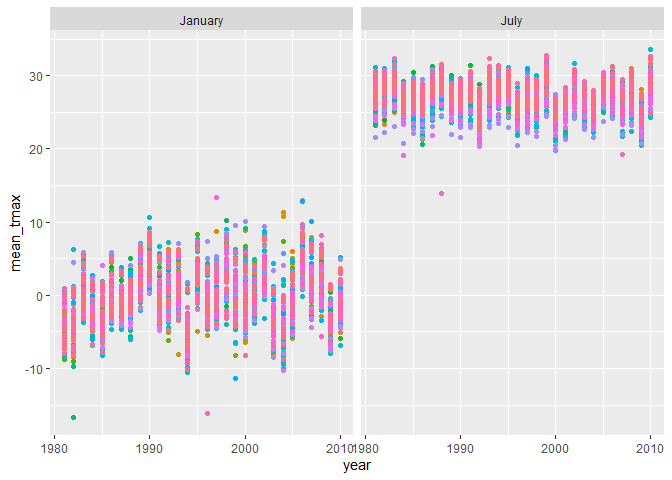
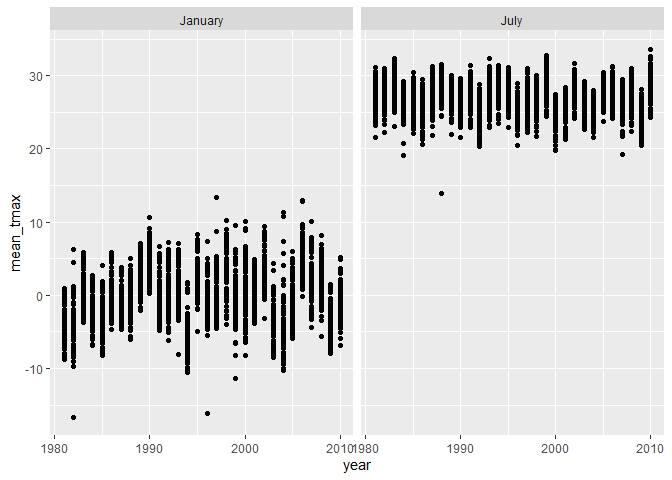
problem 3

Changed region(s): [[0.0938, 0.4375, 0.5312, 0.7812], [0.5312, 0.125, 0.9688, 0.3125]]

diff --git a/p8105_hw3_mmb2355.md b/p8105_hw3_mmb2355.md
@@ -88,7 +88,7 @@ ny_noaa |>
       7 ~ "July"
     )
   )|> 
-  ggplot(aes(x = year, y = mean_tmax, color = id)) +
+  ggplot(aes(x = year, y = mean_tmax)) +
   geom_point() +
   facet_grid(. ~ month_name) +
   theme(legend.position = "none")
@@ -194,13 +194,13 @@ accel_final =
   filter(age >= 21)
 ```
 
-### Number of men and women in each education category; visualization of the age distributions for men and women in each education category
+### Table: number of men and women in each education category; visualization of the age distributions for men and women in each education category
 
 ``` r
 accel_final |> 
   group_by(sex) |> 
   summarize(count = n()) |> 
-  knitr::kable(digits = 2)
+  knitr::kable()
 ```
 
 | sex    |  count |
@@ -288,3 +288,189 @@ accel_final |>
   decreased. Overall, females have a higher activity time compared to
   males across all education levels. Less than high school had the
   highest 24-day activity time at almost 16 g-mins.
+
+## Problem 3
+
+### Import, clean, and tidy these data
+
+``` r
+jan_2020 =
+  read_csv("Jan 2020 Citi.csv", 
+           na = c("NA","", ".")) |> 
+  janitor::clean_names() |> 
+  drop_na() |> 
+  mutate(
+    month = "January",
+    year = "2020"
+  )
+```
+
+    ## Rows: 12420 Columns: 7
+    ## ── Column specification ────────────────────────────────────────────────────────
+    ## Delimiter: ","
+    ## chr (6): ride_id, rideable_type, weekdays, start_station_name, end_station_n...
+    ## dbl (1): duration
+    ## 
+    ## ℹ Use `spec()` to retrieve the full column specification for this data.
+    ## ℹ Specify the column types or set `show_col_types = FALSE` to quiet this message.
+
+``` r
+jan_2024 =
+  read_csv("Jan 2024 Citi.csv", 
+           na = c("NA","", ".")) |> 
+  janitor::clean_names() |> 
+  drop_na() |> 
+  mutate(
+    month = "January",
+    year = "2024"
+  )
+```
+
+    ## Rows: 18861 Columns: 7
+    ## ── Column specification ────────────────────────────────────────────────────────
+    ## Delimiter: ","
+    ## chr (6): ride_id, rideable_type, weekdays, start_station_name, end_station_n...
+    ## dbl (1): duration
+    ## 
+    ## ℹ Use `spec()` to retrieve the full column specification for this data.
+    ## ℹ Specify the column types or set `show_col_types = FALSE` to quiet this message.
+
+``` r
+jul_2020 =
+  read_csv("July 2020 Citi.csv", 
+           na = c("NA","", ".")) |> 
+  janitor::clean_names() |> 
+  drop_na() |> 
+  mutate(
+    month = "July",
+    year = "2020"
+  ) 
+```
+
+    ## Rows: 21048 Columns: 7
+    ## ── Column specification ────────────────────────────────────────────────────────
+    ## Delimiter: ","
+    ## chr (6): ride_id, rideable_type, weekdays, start_station_name, end_station_n...
+    ## dbl (1): duration
+    ## 
+    ## ℹ Use `spec()` to retrieve the full column specification for this data.
+    ## ℹ Specify the column types or set `show_col_types = FALSE` to quiet this message.
+
+``` r
+jul_2024 =
+  read_csv("July 2024 Citi.csv", 
+           na = c("NA","", ".")) |> 
+  janitor::clean_names() |> 
+  drop_na() |> 
+  mutate(
+    month = "July",
+    year = "2024"
+  )
+```
+
+    ## Rows: 47156 Columns: 7
+    ## ── Column specification ────────────────────────────────────────────────────────
+    ## Delimiter: ","
+    ## chr (6): ride_id, rideable_type, weekdays, start_station_name, end_station_n...
+    ## dbl (1): duration
+    ## 
+    ## ℹ Use `spec()` to retrieve the full column specification for this data.
+    ## ℹ Specify the column types or set `show_col_types = FALSE` to quiet this message.
+
+``` r
+citi_df =
+  bind_rows(jan_2020, jul_2020, jan_2024, jul_2024)
+```
+
+In the merged dataframe, there are 99,253 rows and 9 columns. I used
+bind_rows since they have the same variables.
+
+### Table: total number of rides in each combination of year and month separating casual riders and Citi Bike members
+
+``` r
+citi_df |> 
+  group_by(month, year, member_casual) |> 
+  summarize(
+    total_rides = n(), .groups = "drop") |> 
+  knitr::kable()
+```
+
+| month   | year | member_casual | total_rides |
+|:--------|:-----|:--------------|------------:|
+| January | 2020 | casual        |         980 |
+| January | 2020 | member        |       11418 |
+| January | 2024 | casual        |        2094 |
+| January | 2024 | member        |       16705 |
+| July    | 2020 | casual        |        5625 |
+| July    | 2020 | member        |       15388 |
+| July    | 2024 | casual        |       10843 |
+| July    | 2024 | member        |       36200 |
+
+Overall, there are more Citi Bike members than casual members across
+both months and years. There are fewer bikers in general in January than
+in July, which makes sense because of the weather.
+
+### Table: Top 5 starting stations for July 2024 w/ number of rides
+
+``` r
+citi_df |> 
+  group_by(start_station_name) |> 
+  filter(month == "July", year == "2024") |>
+  summarize(total_rides = n(), .groups = "drop") |> 
+  slice_max(order_by = total_rides, n = 5) |> 
+  knitr::kable()
+```
+
+| start_station_name       | total_rides |
+|:-------------------------|------------:|
+| Pier 61 at Chelsea Piers |         163 |
+| University Pl & E 14 St  |         155 |
+| W 21 St & 6 Ave          |         152 |
+| West St & Chambers St    |         150 |
+| W 31 St & 7 Ave          |         145 |
+
+### Plot: day of the week vs median ride duration by month and year
+
+``` r
+citi_df |> 
+  mutate(
+    weekdays = factor(
+      weekdays, 
+      levels = c("Monday", "Tuesday", "Wednesday", "Thursday", "Friday", "Saturday", "Sunday"),
+      ordered = TRUE)) |> 
+  group_by(weekdays, month, year) |> 
+  summarize(
+    median_duration = median(duration, na.rm = TRUE), 
+    .groups = "drop") |> 
+  ggplot(aes(x = weekdays, y = median_duration, group = 1)) +
+  geom_line() + geom_point() +
+  facet_grid(year ~ month)
+```
+
+![](p8105_hw3_mmb2355_files/figure-gfm/unnamed-chunk-12-1.png)<!-- -->
+
+The highest days of median ride duration across month and year is on
+Saturday. The highest month and year median ride duration was in July
+2020 and the lowest were in January 2024. The highest median ride
+duration value across month and year is about 17 seconds, and the lowest
+is 7.5 seconds.
+
+### There were relatively few electric Citi Bikes in 2020, but many more are available now. For data in 2024, make a figure that shows the impact of month, membership status, and bike type on the distribution of ride duration. Comment on your results
+
+``` r
+citi_df |> 
+  group_by(month, member_casual, rideable_type) |> 
+  filter(year == "2024") |> 
+  ggplot(aes(x = month, y = duration)) +
+  geom_col() +
+  facet_grid(rideable_type ~ member_casual)
+```
+
+![](p8105_hw3_mmb2355_files/figure-gfm/unnamed-chunk-13-1.png)<!-- -->
+
+In July, there is a longer ride duration (seconds) on the bikes than in
+January. Overall, electric bikes have a higher ride duration than
+classic bikes. Citi Bike members have a longer ride duration in January
+and July, compared to casual bike riders. The highest ride duration
+combination are Citi Bike members who ride an electric bike in July, and
+the lowest is casual bikers who ride a classic bike in January.
